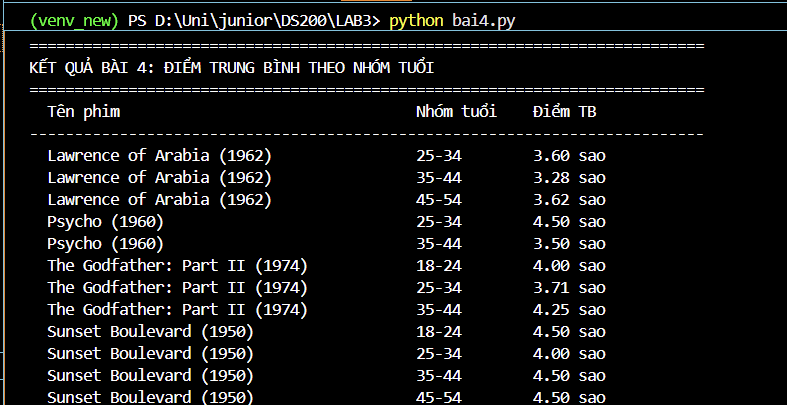
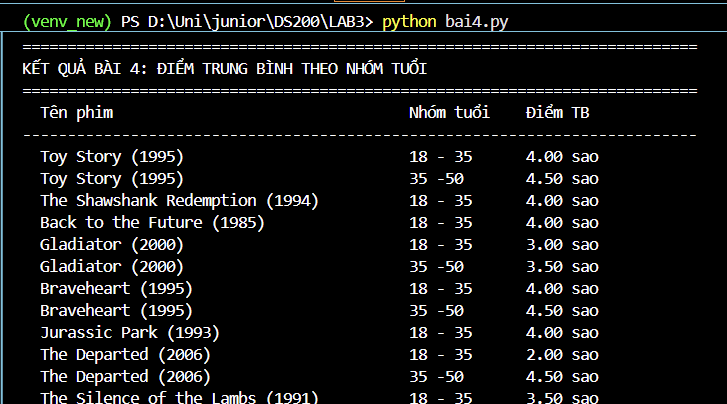
Update folder Bai4

Changed region(s): [[0.0, 0.0, 1.0, 1.0]]

diff --git a/LAB3/Bai4/bai4.py b/LAB3/Bai4/bai4.py
@@ -18,17 +18,13 @@ def get_age_group(age):
     """Phân loại tuổi thành nhóm"""
     age = int(age)
     if age < 18:
-        return "Dưới 18"
-    elif age < 25:
-        return "18-24"
+        return "0 - 18"
     elif age < 35:
-        return "25-34"
-    elif age < 45:
-        return "35-44"
-    elif age < 55:
-        return "45-54"
+        return "18 - 35"
+    elif age < 50:
+        return "35 -50"
     else:
-        return "55+"
+        return "50+"
 
 def extract_user_agegroup(parts):
     """Trả về (UserID, AgeGroup)"""
@@ -37,8 +33,7 @@ def extract_user_agegroup(parts):
     return (user_id, age_group)
 
 def extract_rating_info(parts):
-    """Trả về (UserID, (MovieID, Rating))"""
-    return (parts[0], (parts[1], float(parts[2])))
+    return (parts[0].strip(), (parts[1].strip(), float(parts[2])))
 
 def attach_age_group(record):
     """
@@ -63,17 +58,18 @@ def get_sort_key(record):
 # Tạo map UserID -> AgeGroup
 users_rdd = sc.textFile("users.txt")
 age_group_dict = users_rdd.map(parse_line) \
-                          .map(extract_user_agegroup) \
-                          .collectAsMap()
+    .filter(lambda x: len(x) >= 3) \
+    .map(extract_user_agegroup) \
+    .collectAsMap()
 
 age_group_broadcast = sc.broadcast(age_group_dict)
 
 # Tạo map MovieID -> MovieTitle
 movies_rdd = sc.textFile("movies.txt")
-movie_title_dict = movies_rdd.map(parse_line) \
-                             .map(lambda parts: (parts[0], parts[1])) \
-                             .collectAsMap()
 
+movie_title_dict = movies_rdd.map(parse_line) \
+    .map(lambda parts: (parts[0].strip(), parts[1].strip())) \
+    .collectAsMap()
 movie_title_broadcast = sc.broadcast(movie_title_dict)
 
 # Đọc ratings, gán nhóm tuổi